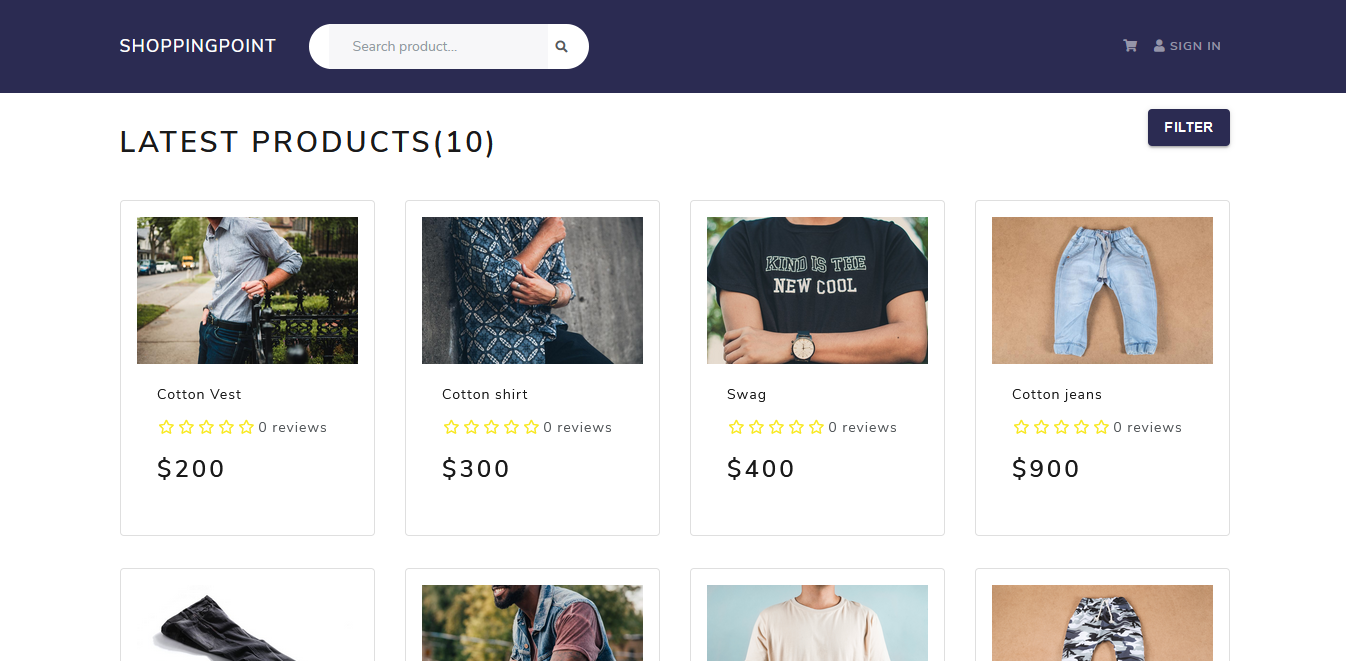
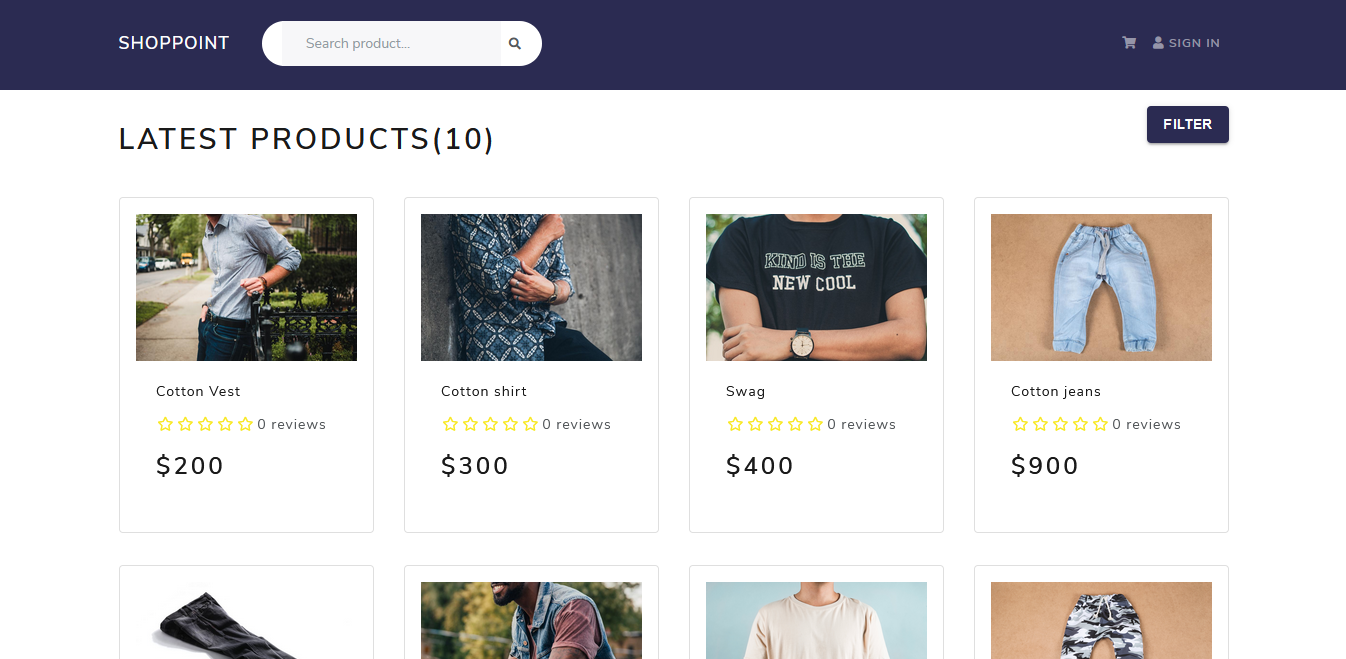
Project name modified

diff --git a/app.js b/app.js
@@ -32,9 +32,21 @@ app.use("/api/v1/review", reviewRouter);
 app.use("/api/v1/order", orderRouter);
 app.use("/api/v1/category", categoryRouter);
 
-app.get('/api/config/paypal', (req, res) =>
+app.get("/api/config/paypal", (req, res) =>
   res.send(process.env.PAYPAL_CLIENT_ID)
-)
+);
+
+if (process.env.NODE_ENV === "production") {
+  app.use(express.static(path.join(__dirname, "/client/build")));
+
+  app.get("*", (req, res) =>
+    res.sendFile(path.resolve(__dirname, "client", "build", "index.html"))
+  );
+} else {
+  app.get("/", (req, res) => {
+    res.send("API is running....");
+  });
+}
 
 app.use(unknownEndpoints);
 app.use(errorHandler);

diff --git a/client/src/Components/Footer/Footer.js b/client/src/Components/Footer/Footer.js
@@ -6,7 +6,7 @@ const Footer = () => {
     <footer>
       <Container>
         <Row>
-          <Col className="text-center py-3">Copyright &copy; ShoppingPoint</Col>
+          <Col className="text-center py-3">Copyright &copy; ShopPoint</Col>
         </Row>
       </Container>
     </footer>

diff --git a/README.md b/README.md
@@ -1,4 +1,4 @@
-# Welcome to ShoppingPoint! ✨
+# Welcome to ShopPoint! ✨
 
 [![PRs Welcome](https://img.shields.io/badge/PRs-welcome-brightgreen.svg?style=flat-square)](https://shoppingpoint.herokuapp.com/)&nbsp;[![Build passing](https://img.shields.io/badge/Build-Passing-brightgreen.svg?style=flat-square)](https://shoppingpoint.herokuapp.com/)&nbsp;[![Open Source Love](https://badges.frapsoft.com/os/v1/open-source.svg?v=102)](https://foodeazy.herokuapp.com/)&nbsp;[![License](https://img.shields.io/badge/license-MIT-brightgreen)](https://shoppingpoint.herokuapp.com/)&nbsp;![Made with love in Nepal](https://madewithlove.now.sh/np?heart=true)
 
